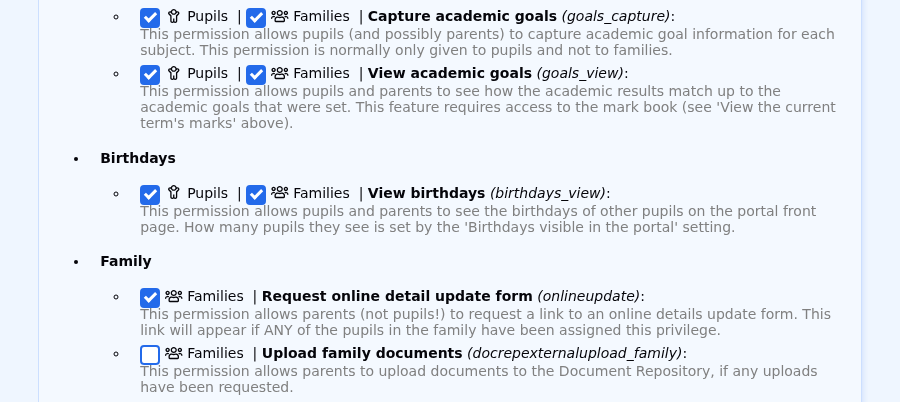
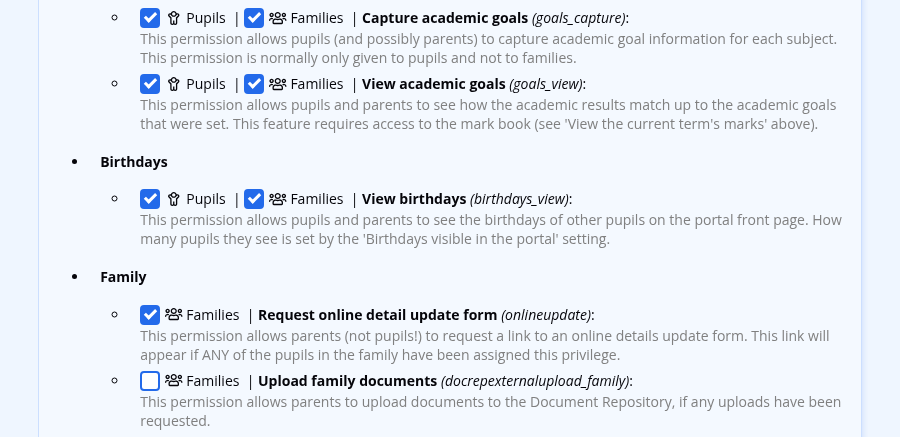
FIXED: Re-capture parent-and-pupil-portal-09.png in the correct typeface
fonts.googleapis.com is blocked by the allowed-origins rail, and this machine
had no local Open Sans/Arial, so the original shot silently fell back to
DejaVu Sans. Open Sans is now installed locally; this re-capture uses it.
Also adds a font pre-flight check to the capturing-screenshots skill so a
future agent on a fresh machine catches the fallback before shooting.

diff --git a/.claude/skills/capturing-screenshots/SKILL.md b/.claude/skills/capturing-screenshots/SKILL.md
@@ -19,6 +19,36 @@ curl -sk -o /dev/null -w "%{http_code}\n" --max-time 10 https://dev.theta.adam.c
 
 Expected `200`. Anything else — stop and report; do not begin a capture run.
 
+Confirm the real typeface is available, not a silent fallback. ADAM's stylesheet pulls Open Sans
+from `fonts.googleapis.com` and falls back to Arial, then to whatever sans-serif the system has —
+but the allowed-origins rail blocks `fonts.googleapis.com` on purpose, so the webfont never loads
+here. If the machine also lacks Open Sans and Arial installed locally, the page renders in
+something like DejaVu Sans instead: it looks fine, nothing errors, and every screenshot taken that
+way has the wrong letterforms and won't match the manual's existing images. This failure is silent,
+so check for it explicitly rather than trusting that the page "looks right":
+
+```js
+() => {
+  const c = document.createElement('canvas').getContext('2d');
+  const s = 'Manage permissions groups — Birthdays 0123';
+  c.font = '16px "Open Sans"';
+  const openSans = c.measureText(s).width;
+  c.font = '16px "DejaVu Sans"';
+  const dejaVu = c.measureText(s).width;
+  return {openSans, dejaVu};
+}
+```
+
+If `openSans` and `dejaVu` come back identical, the browser has no real Open Sans and is silently
+substituting its generic fallback for both font names — stop and fix this before capturing anything.
+The fix is to install the font locally, not to widen the rail: install Open Sans (regular and
+italic) to `~/.local/share/fonts/`, run `fc-cache -f`, then **restart the browser**, since Chromium
+only reads fontconfig at startup and won't pick up a newly installed font in a running session.
+Re-run the measurement afterwards and confirm the two widths now differ. Do not "fix" this by
+adding `fonts.googleapis.com` to `--allowed-origins` instead — that would weaken the safety rail that
+keeps the browser off the open internet, and would make every future capture depend on Google's
+CDN being reachable, which is exactly the kind of external dependency the rail exists to remove.
+
 ## Logging in
 
 No credentials exist or are needed. `env = dev` enables a bypass:
